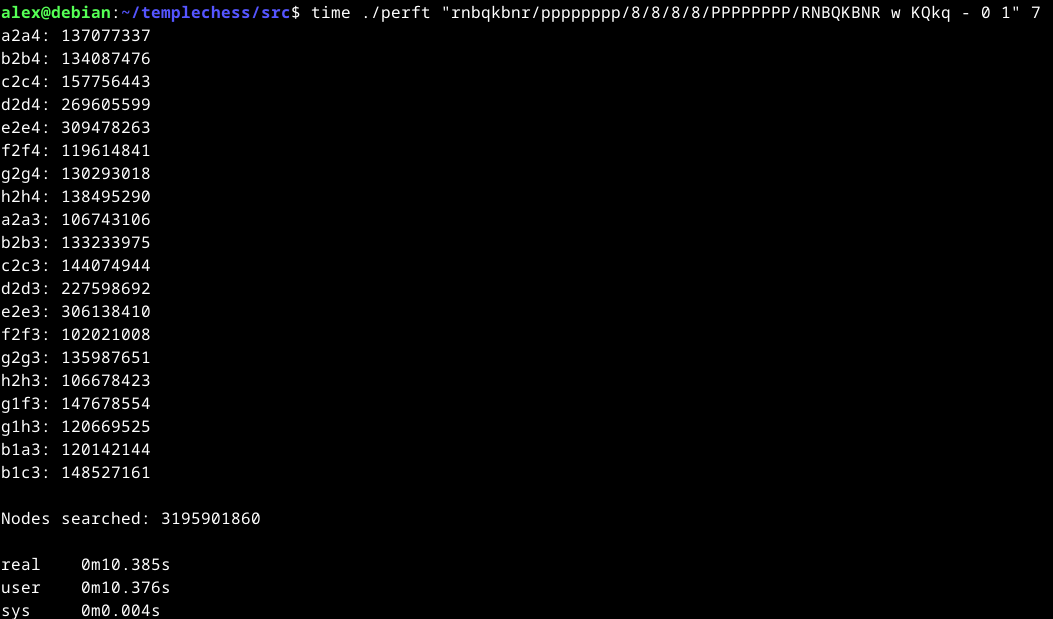
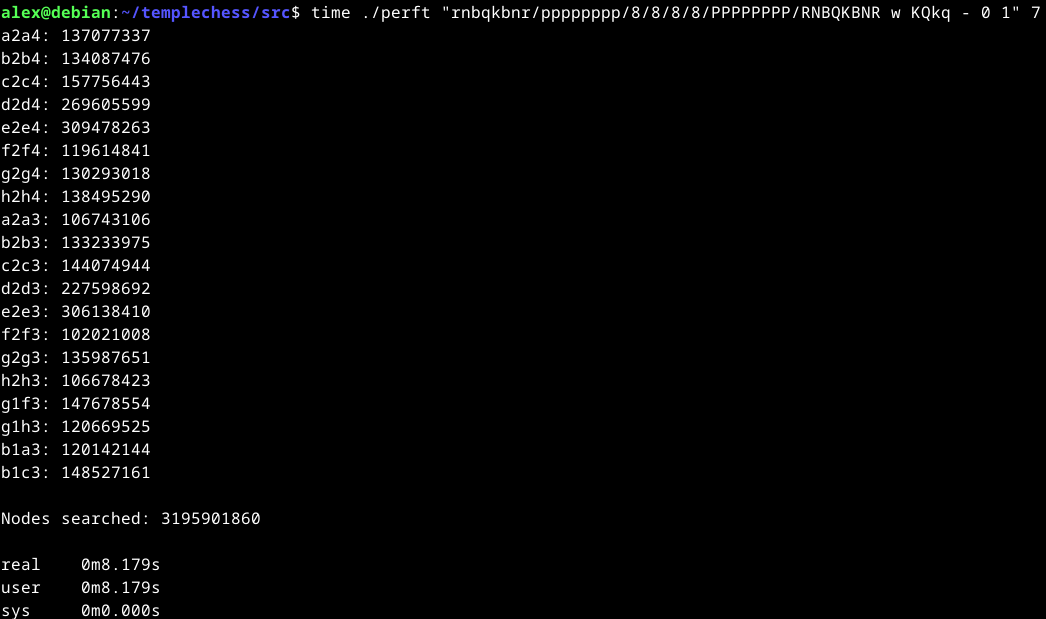
update README

Changed region(s): [[0.0306, 0.0, 1.0, 0.7674], [0.0612, 0.8901, 0.153, 1.0], [0.0612, 0.8288, 0.2447, 0.8595]]

diff --git a/README.md b/README.md
@@ -1,6 +1,6 @@
 # templechess
 
-The goal of this project is to find the number of legal moves branching from any given chess position as fast as possible, with clear minimalistic code. For simplicity, we don't include threading, SIMD instructions or a hash table. With my Intel i5-8400 CPU, it currently completes perft(7) in ~10.4s which equates to ~300M nodes per second.
+The goal of this project is to find the number of legal moves branching from any given chess position as fast as possible, with clear minimalistic code. For simplicity, we don't include threading, SIMD instructions or a hash table. With my Intel i5-8400 CPU, it currently completes perft(7) in ~8.2s which equates to ~390M nodes per second.
 
 It assumes a UNIX-like operating system such as linux or mac and would need to be modified to compile on windows.
 
